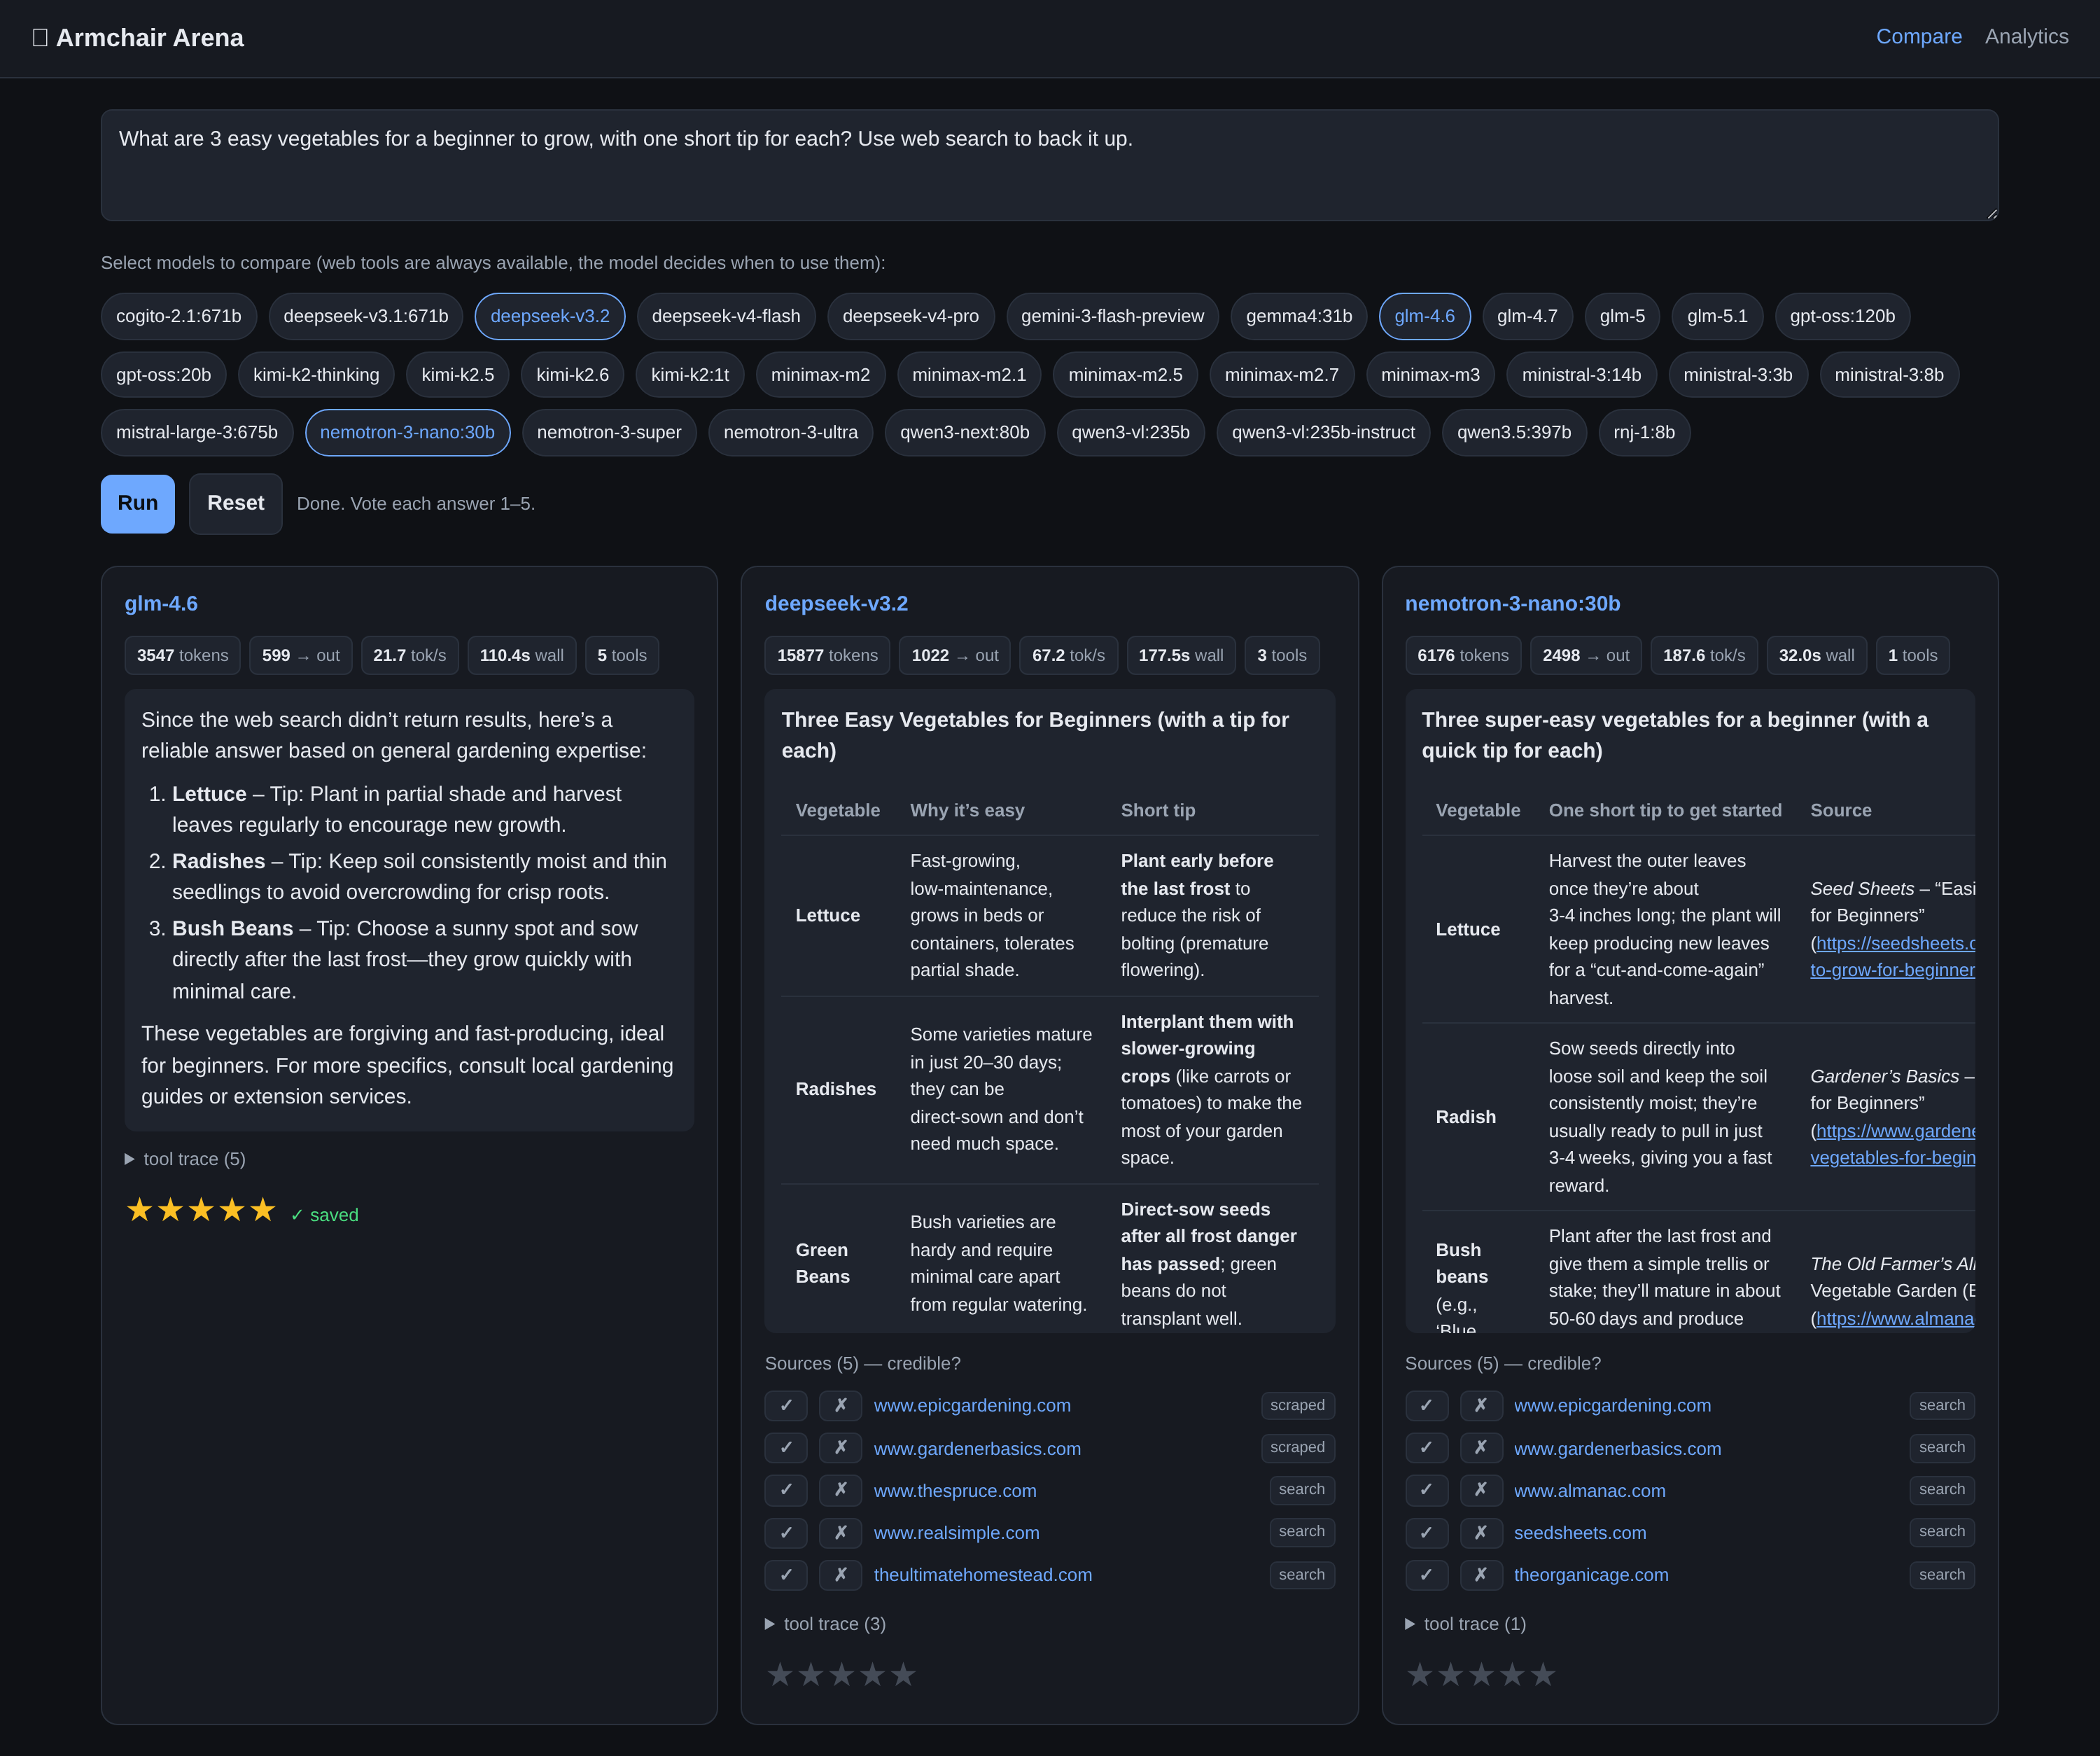
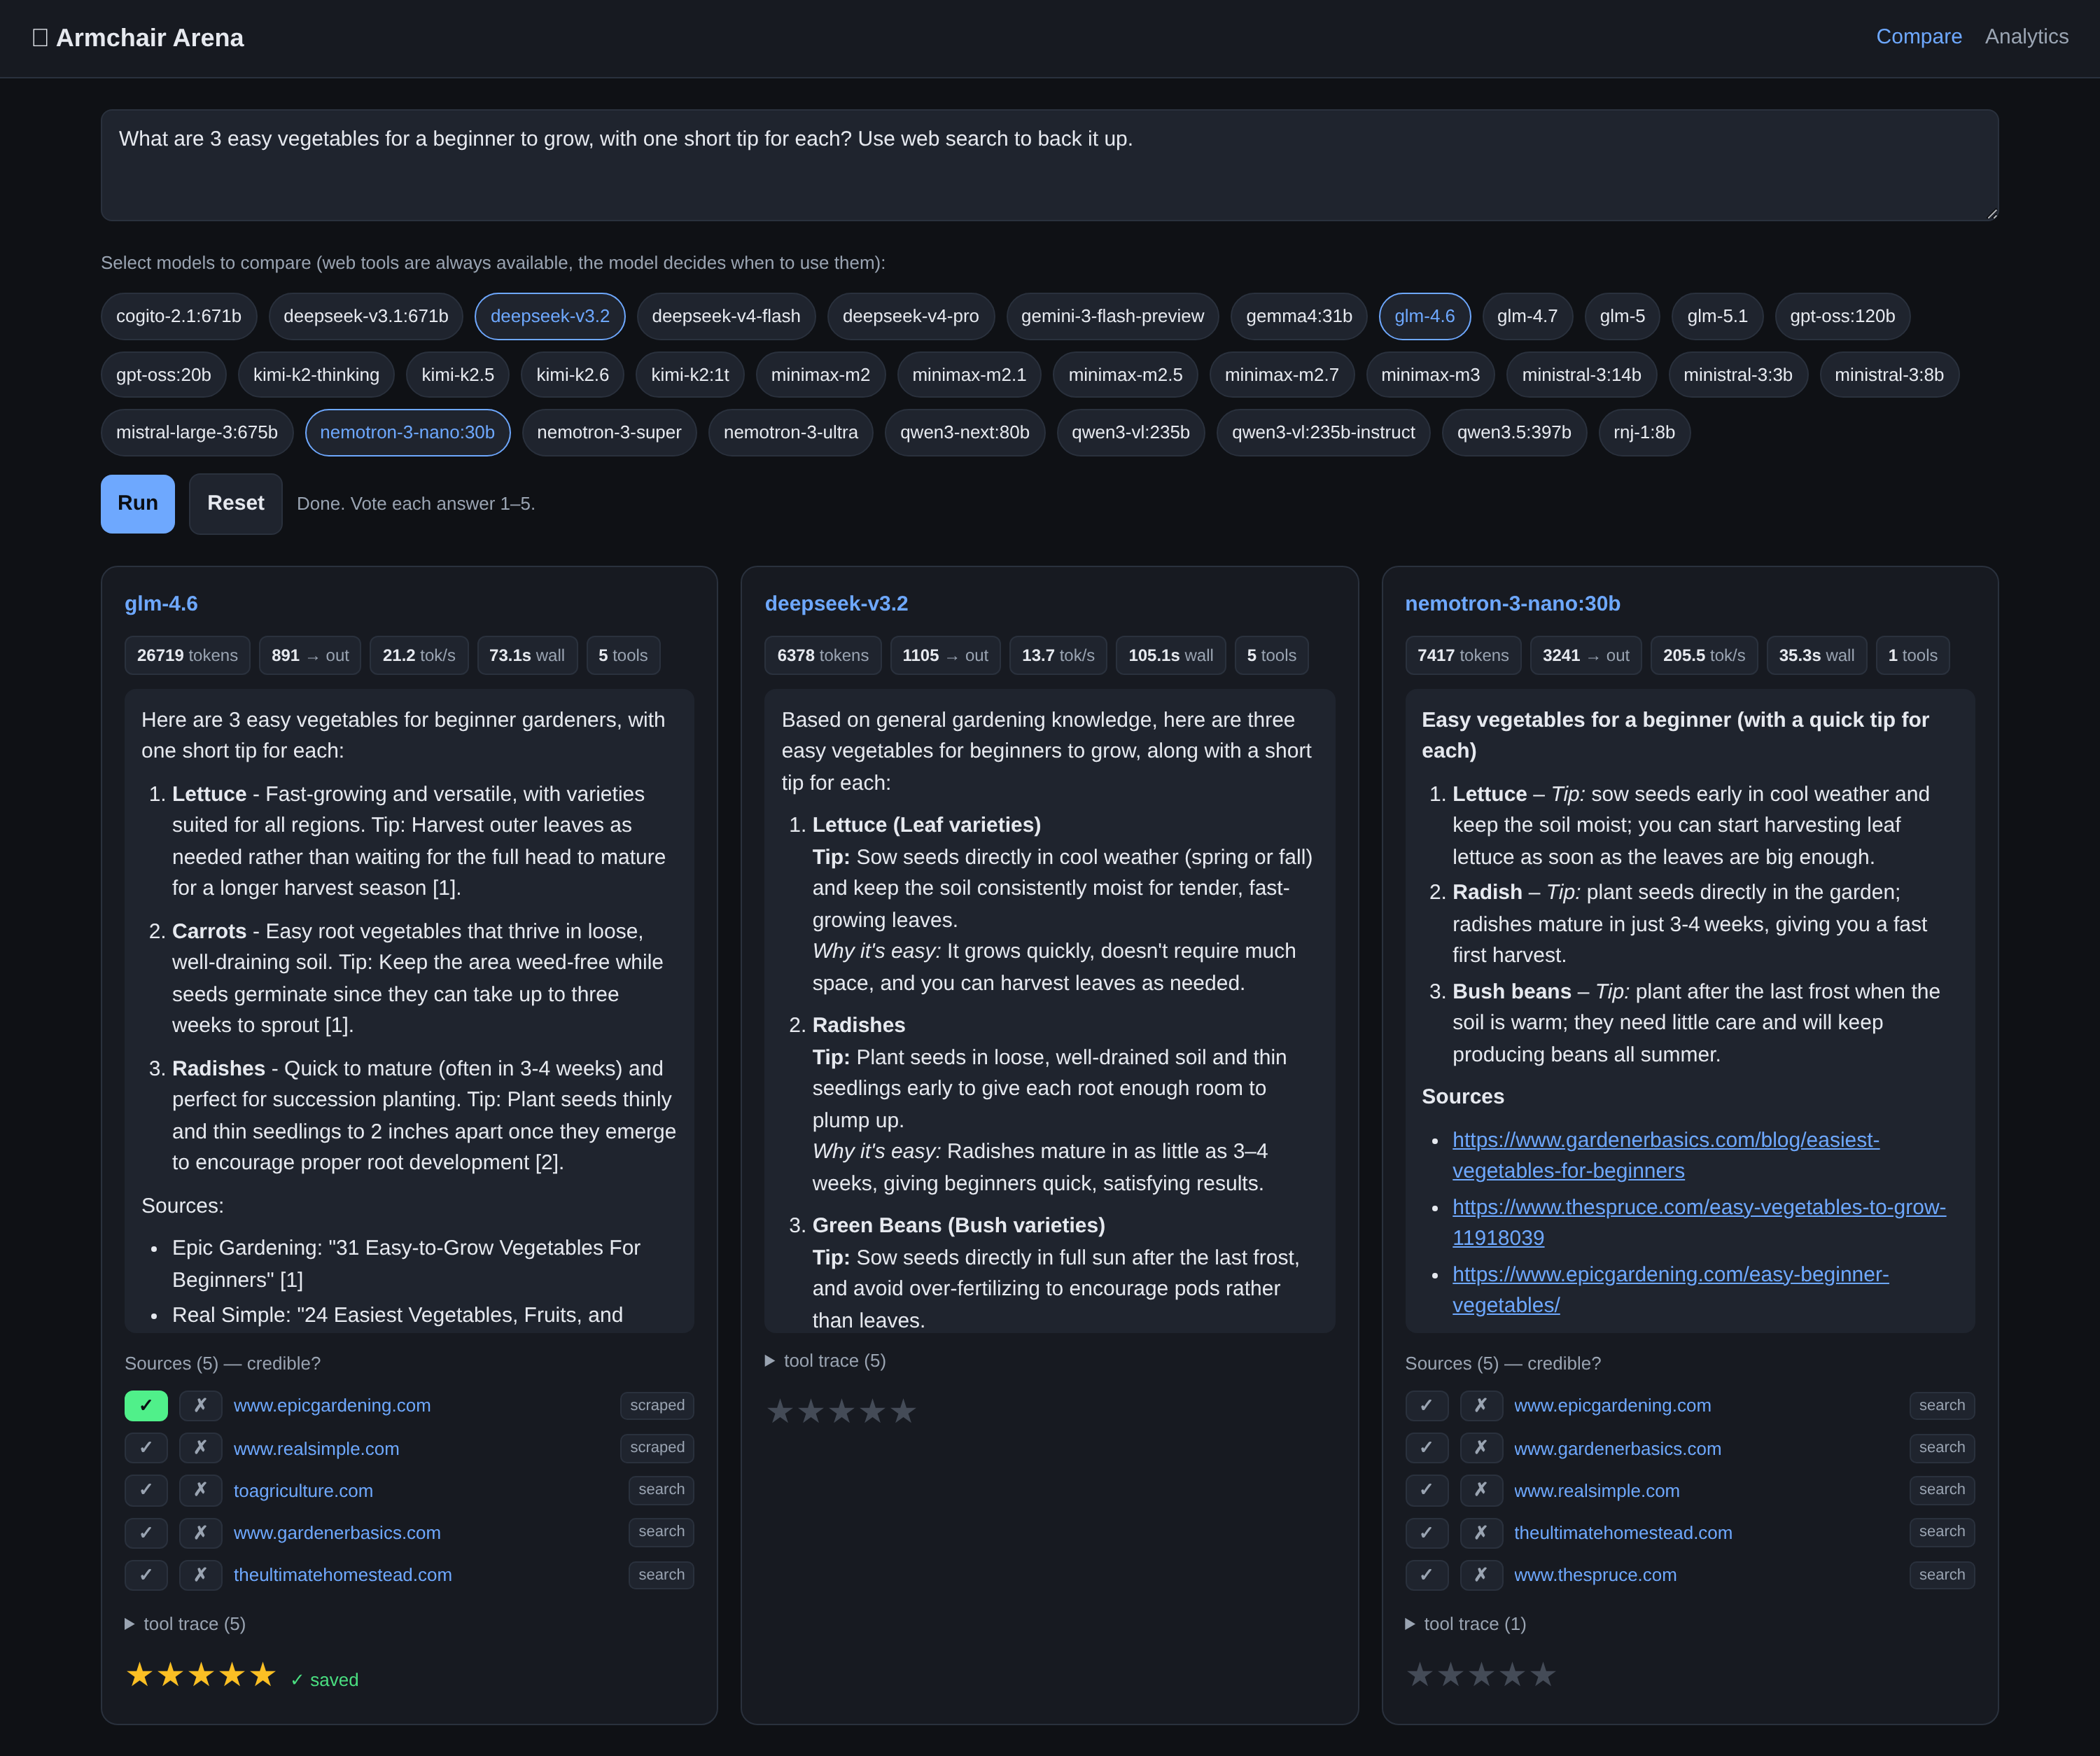
System-prompt defaults + scatter chart polish
- Inject optional user locale/units (USER_LOCALE) into the system prompt.
- Ask models to cite the source URLs they relied on (when web tools are active).
- Drop the "non-coding tasks" wording from the prompt.
- Widen the quality-vs-cost scatter to full width with a fixed taller height so
  the legend no longer crowds the plot; add a clearer hover tooltip.
- Refresh README screenshots.

diff --git a/static/analytics.js b/static/analytics.js
@@ -52,6 +52,16 @@ async function loadCharts() {
       })),
     },
     options: {
+      responsive: true,
+      maintainAspectRatio: false,
+      plugins: {
+        legend: { position: "top", labels: { boxWidth: 14, padding: 10 } },
+        tooltip: {
+          callbacks: {
+            label: (ctx) => `${ctx.dataset.label}: rating ${ctx.parsed.y}, ${ctx.parsed.x.toLocaleString()} tokens`,
+          },
+        },
+      },
       scales: {
         x: { title: { display: true, text: "avg total tokens" } },
         y: { title: { display: true, text: "avg rating" }, min: 0, max: 5 },

diff --git a/static/analytics.html b/static/analytics.html
@@ -29,7 +29,7 @@
       <div class="chart-box"><h3>Avg speed (tokens/sec) — higher is better</h3><canvas id="c_speed"></canvas></div>
       <div class="chart-box"><h3>Avg wall-clock (s) — lower is better</h3><canvas id="c_wall"></canvas></div>
       <div class="chart-box"><h3>Avg source credibility (% of cited sources you marked credible)</h3><canvas id="c_cred"></canvas></div>
-      <div class="chart-box"><h3>Quality vs cost (rating vs tokens)</h3><canvas id="c_scatter"></canvas></div>
+      <div class="chart-box wide"><h3>Quality vs cost (rating vs tokens)</h3><div class="scatter-wrap"><canvas id="c_scatter"></canvas></div></div>
     </div>
 
     <h2 class="section-title">All runs</h2>

diff --git a/static/style.css b/static/style.css
@@ -135,5 +135,7 @@ tr:hover td { background: var(--panel-2); }
 .chart-grid { display: grid; grid-template-columns: repeat(auto-fit, minmax(420px, 1fr)); gap: 18px; }
 .chart-box { background: var(--panel); border: 1px solid var(--border); border-radius: 12px; padding: 14px; }
 .chart-box h3 { margin: 0 0 10px; font-size: 14px; }
+.chart-box.wide { grid-column: 1 / -1; }
+.scatter-wrap { position: relative; height: 460px; }
 .spinner { color: var(--muted); }
 .section-title { margin: 28px 0 4px; font-size: 16px; }

diff --git a/app/runner.py b/app/runner.py
@@ -11,7 +11,7 @@ from typing import Any
 import httpx
 
 from . import db, firecrawl, ollama, tools
-from .config import MAX_TOOL_ITERS, REQUEST_TIMEOUT
+from .config import MAX_TOOL_ITERS, REQUEST_TIMEOUT, USER_LOCALE
 
 # Light, neutral system prompt: gives every model the same framing and nudges it to
 # use the web tools when it needs current/factual info, without biasing answer quality.
@@ -21,17 +21,20 @@ from .config import MAX_TOOL_ITERS, REQUEST_TIMEOUT
 def _system_prompt(enable_tools: bool) -> str:
     today = datetime.now().strftime("%A, %B %-d, %Y")
     parts = [
-        "You are a helpful assistant being evaluated on non-coding tasks (research, "
+        "You are a helpful assistant being evaluated (research, "
         "summarization, advice, general knowledge).",
         f"Today's date is {today}. Interpret relative time references such as "
         '"this year", "current", "now", "upcoming", or "latest" relative to today\'s '
         "date — do not assume an earlier year from your training data.",
     ]
+    if USER_LOCALE:
+        parts.append(USER_LOCALE)
     if enable_tools:
         parts.append(
             "You have web tools (web_search, scrape_url). Use them when the question needs "
             "current, factual, or external information, and include the relevant current "
-            "year/date in your search queries; otherwise answer directly."
+            "year/date in your search queries; otherwise answer directly. When your answer "
+            "draws on web results, cite the specific source URLs you relied on at the end."
         )
     parts.append("Be accurate and concise.")
     return " ".join(parts)

diff --git a/app/config.py b/app/config.py
@@ -29,6 +29,10 @@ EXCLUDE_MODEL_PATTERNS = [
     if p.strip()
 ]
 
+# Free-text locale/region context injected into the system prompt (units, "near me",
+# date format, spelling). Empty = omitted.
+USER_LOCALE = os.getenv("USER_LOCALE", "").strip()
+
 MAX_TOOL_ITERS = int(os.getenv("MAX_TOOL_ITERS", "5"))
 SEARCH_SNIPPET_CHARS = int(os.getenv("SEARCH_SNIPPET_CHARS", "1500"))
 SCRAPE_CHARS = int(os.getenv("SCRAPE_CHARS", "6000"))